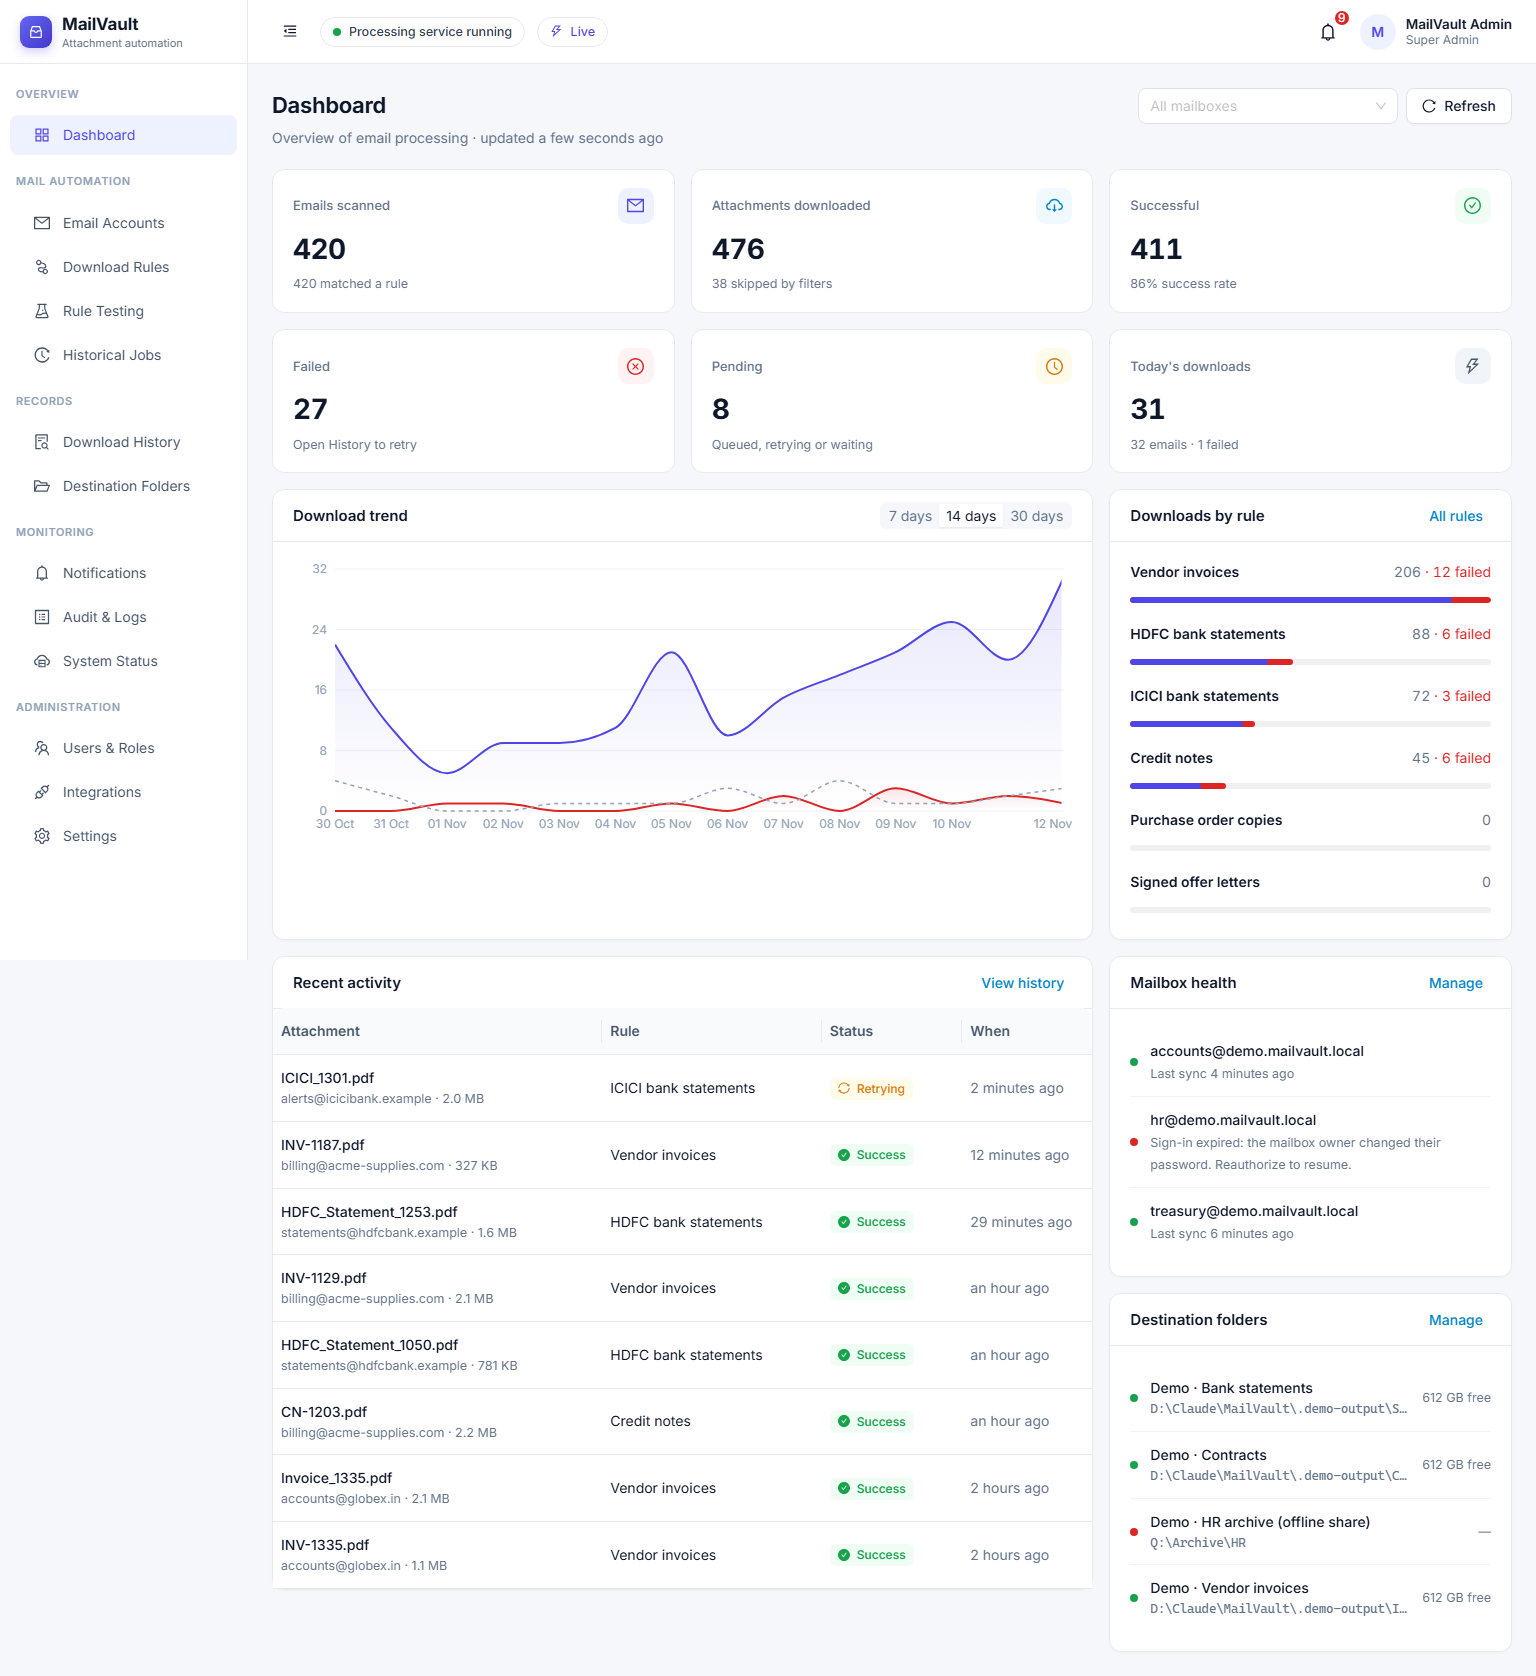
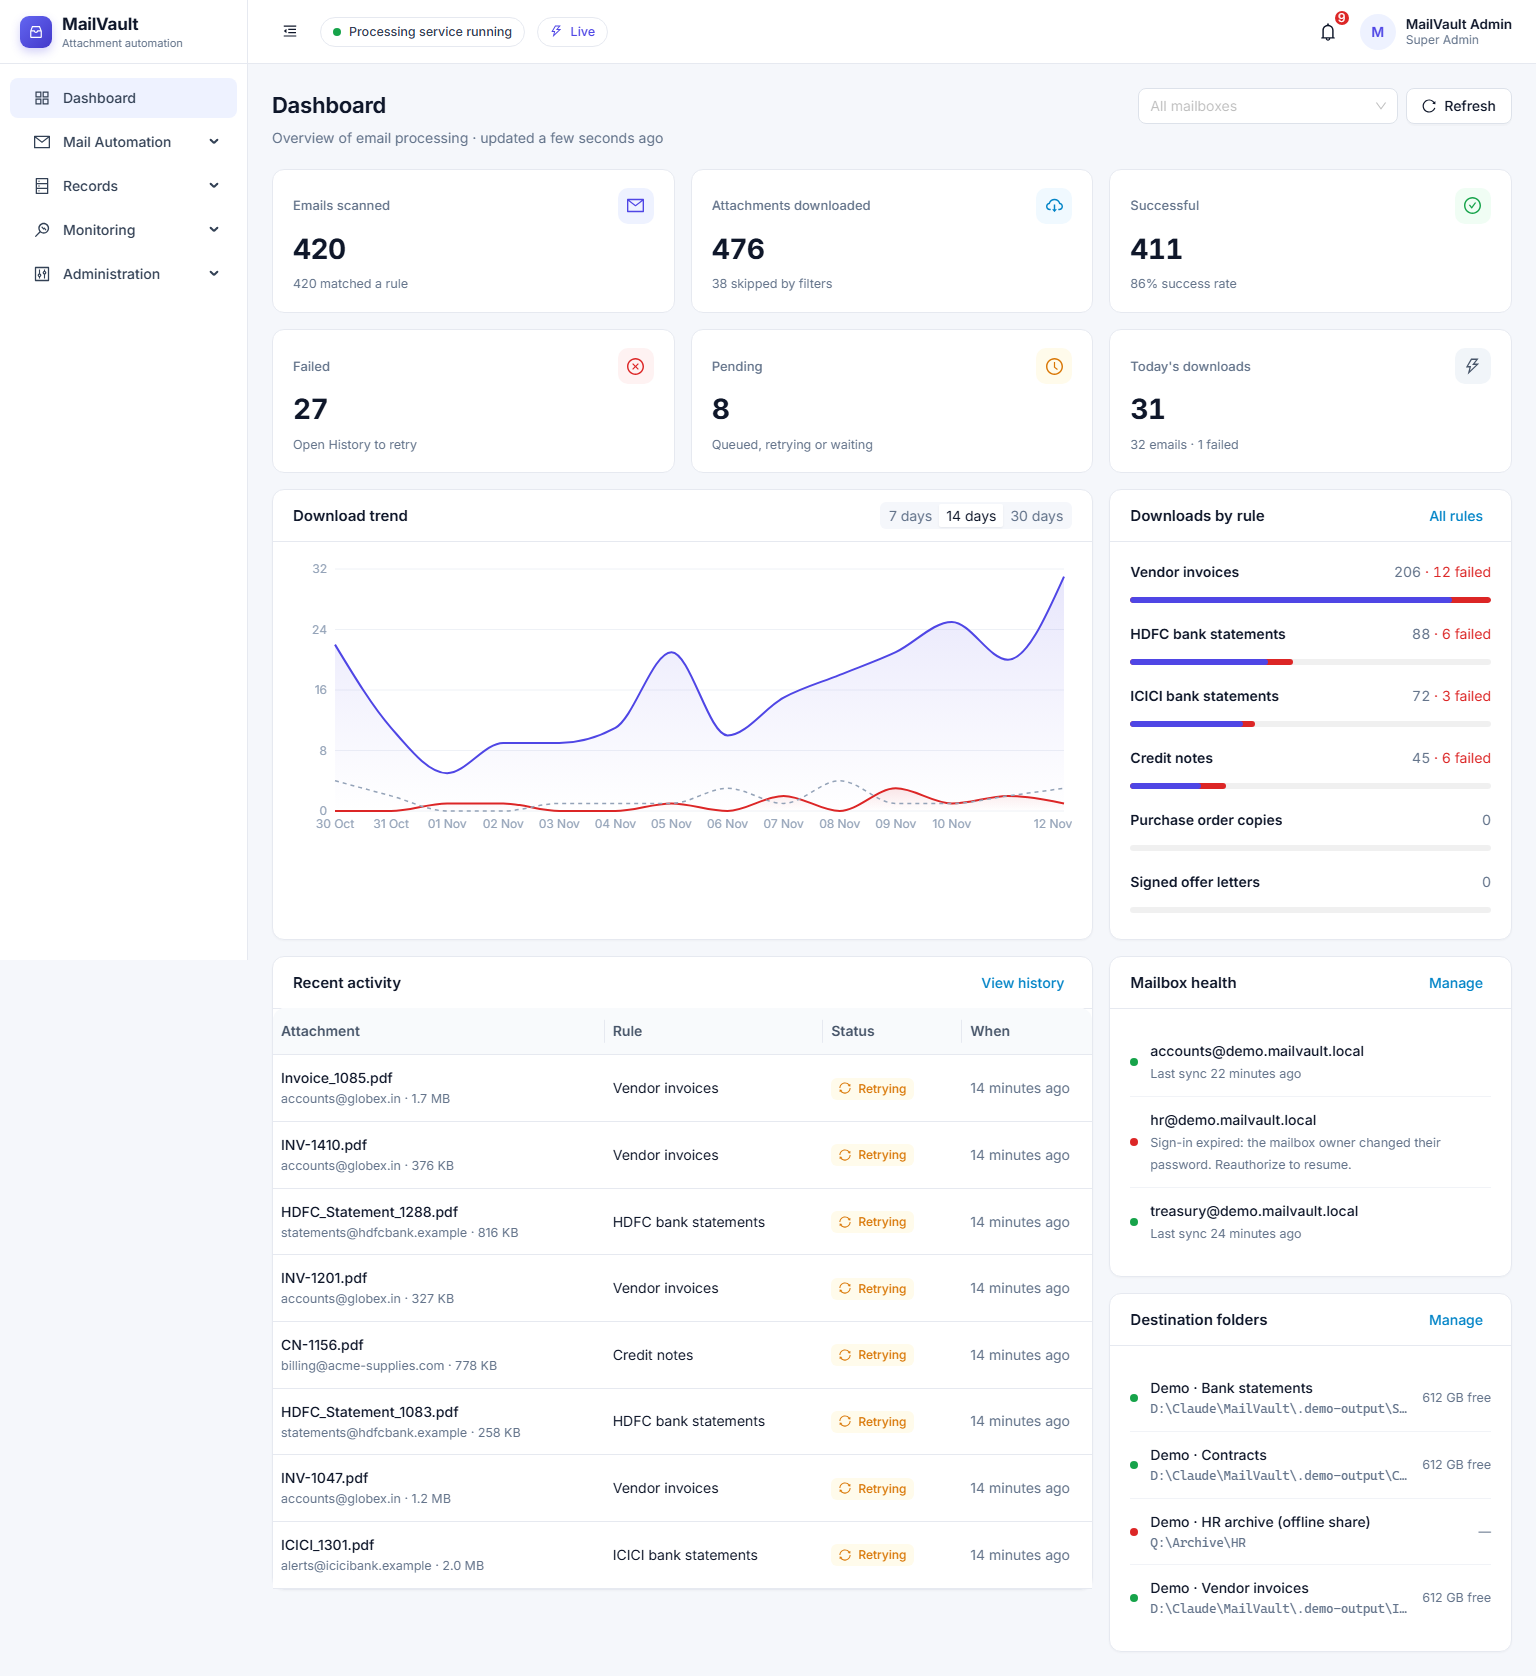
Sidebar: parent/child accordion menu with collapsed hover pop-outs
- Dashboard + four parent groups (Mail Automation, Records, Monitoring, Administration)
  with their own icons; children indented with a guide line
- Accordion: only one parent open; clicking an open parent closes it
- Parent of the current page opens automatically (also on deep links) and is highlighted
- Collapsed: parent icons only, hover pop-out with the parent's name and its pages;
  collapsed state remembered per browser
- Items still filtered by the user's permissions
- tests/e2e/sidebar.ts browser check (9 checks) and refreshed screenshots

diff --git a/apps/web/src/layout/AppLayout.tsx b/apps/web/src/layout/AppLayout.tsx
@@ -23,6 +23,10 @@ import {
   ThunderboltOutlined,
   KeyOutlined,
   ApiOutlined,
+  ContactsOutlined,
+  ControlOutlined,
+  DatabaseOutlined,
+  MonitorOutlined,
 } from '@ant-design/icons';
 import { ChangePasswordModal, PreferencesModal } from '../components/AccountModals';
 import type { Module } from '@mailvault/shared';
@@ -39,26 +43,40 @@ interface NavItem {
   module: Module;
 }
 
-const NAV: { group: string; items: NavItem[] }[] = [
-  { group: 'Overview', items: [{ key: '/', label: 'Dashboard', icon: <AppstoreOutlined />, module: 'dashboard' }] },
+interface NavGroup {
+  key: string;
+  label: string;
+  icon: React.ReactNode;
+  items: NavItem[];
+}
+
+const HOME: NavItem = { key: '/', label: 'Dashboard', icon: <AppstoreOutlined />, module: 'dashboard' };
+
+const NAV: NavGroup[] = [
   {
-    group: 'Mail automation',
+    key: 'grp:mail',
+    label: 'Mail Automation',
+    icon: <MailOutlined />,
     items: [
-      { key: '/accounts', label: 'Email Accounts', icon: <MailOutlined />, module: 'accounts' },
+      { key: '/accounts', label: 'Email Accounts', icon: <ContactsOutlined />, module: 'accounts' },
       { key: '/rules', label: 'Download Rules', icon: <NodeIndexOutlined />, module: 'rules' },
       { key: '/rule-testing', label: 'Rule Testing', icon: <ExperimentOutlined />, module: 'ruleTesting' },
       { key: '/historical-jobs', label: 'Historical Jobs', icon: <HistoryOutlined />, module: 'ruleTesting' },
     ],
   },
   {
-    group: 'Records',
+    key: 'grp:records',
+    label: 'Records',
+    icon: <DatabaseOutlined />,
     items: [
       { key: '/history', label: 'Download History', icon: <FileSearchOutlined />, module: 'history' },
       { key: '/destinations', label: 'Destination Folders', icon: <FolderOpenOutlined />, module: 'destinations' },
     ],
   },
   {
-    group: 'Monitoring',
+    key: 'grp:monitoring',
+    label: 'Monitoring',
+    icon: <MonitorOutlined />,
     items: [
       { key: '/notifications', label: 'Notifications', icon: <BellOutlined />, module: 'notifications' },
       { key: '/logs', label: 'Audit & Logs', icon: <ProfileOutlined />, module: 'logs' },
@@ -66,7 +84,9 @@ const NAV: { group: string; items: NavItem[] }[] = [
     ],
   },
   {
-    group: 'Administration',
+    key: 'grp:admin',
+    label: 'Administration',
+    icon: <ControlOutlined />,
     items: [
       { key: '/users', label: 'Users & Roles', icon: <TeamOutlined />, module: 'users' },
       { key: '/integrations', label: 'Integrations', icon: <ApiOutlined />, module: 'settings' },
@@ -74,6 +94,18 @@ const NAV: { group: string; items: NavItem[] }[] = [
     ],
   },
 ];
+
+/** The parent group that contains a page, so it can be opened automatically. */
+const groupOf = (path: string) => NAV.find((g) => g.items.some((i) => i.key === path))?.key;
+
+const COLLAPSE_KEY = 'mv.sidebarCollapsed';
+const readCollapsed = () => {
+  try {
+    return localStorage.getItem(COLLAPSE_KEY) === '1';
+  } catch {
+    return false;
+  }
+};
 
 interface StatusResp {
   workers: { online: boolean; lastBeatAt: string; hostname: string }[];
@@ -97,7 +129,32 @@ export function AppLayout() {
   const [prefsOpen, setPrefsOpen] = useState(false);
   const navigate = useNavigate();
   const { pathname } = useLocation();
-  const [collapsed, setCollapsed] = useState(false);
+  const [collapsed, setCollapsedState] = useState(readCollapsed);
+  const setCollapsed = (fn: (c: boolean) => boolean) =>
+    setCollapsedState((c) => {
+      const next = fn(c);
+      try {
+        localStorage.setItem(COLLAPSE_KEY, next ? '1' : '0');
+      } catch {
+        /* storage not available */
+      }
+      return next;
+    });
+  const selected = '/' + (pathname.split('/')[1] ?? '');
+  const [openKeys, setOpenKeys] = useState<string[]>(() => {
+    const g = groupOf(selected);
+    return g ? [g] : [];
+  });
+  // Navigating to a page opens its parent (and closes the others).
+  useEffect(() => {
+    const g = groupOf(selected);
+    if (g) setOpenKeys([g]);
+  }, [selected]);
+  // Accordion: only one parent open at a time; clicking an open parent closes it.
+  const onOpenChange = (keys: string[]) => {
+    const latest = keys.find((k) => !openKeys.includes(k));
+    setOpenKeys(latest ? [latest] : []);
+  };
 
   const status = useQuery({ queryKey: ['system-status'], queryFn: () => api.get<StatusResp>('/api/system/status'), refetchInterval: 30_000 });
   const notes = useQuery({ queryKey: ['notifications'], queryFn: () => api.get<NotificationRow[]>('/api/notifications'), refetchInterval: 30_000 });
@@ -126,17 +183,19 @@ export function AppLayout() {
   const unread = notes.data?.filter((n) => !n.readAt).length ?? 0;
   const worker = status.data?.workers.find((w) => w.online) ?? status.data?.workers[0];
 
-  const items: MenuProps['items'] = useMemo(
-    () =>
-      NAV.map((g) => ({
-        type: 'group' as const,
-        label: collapsed ? null : g.group,
-        children: g.items.filter((i) => can(i.module)).map((i) => ({ key: i.key, icon: i.icon, label: i.label })),
-      })).filter((g) => g.children.length > 0),
-    [can, collapsed],
-  );
-
-  const selected = '/' + (pathname.split('/')[1] ?? '');
+  const items: MenuProps['items'] = useMemo(() => {
+    const groups = NAV.map((g) => ({
+      key: g.key,
+      icon: g.icon,
+      label: g.label,
+      popupClassName: 'mv-menu-popup',
+      children: g.items.filter((i) => can(i.module)).map((i) => ({ key: i.key, icon: i.icon, label: i.label })),
+    }))
+      .filter((g) => g.children.length > 0)
+      // Collapsed: the hover pop-out gets the parent's name as a small heading.
+      .map((g) => (collapsed ? { ...g, children: [{ type: 'group' as const, key: `${g.key}:title`, label: g.label, children: g.children }] } : g));
+    return [...(can(HOME.module) ? [{ key: HOME.key, icon: HOME.icon, label: HOME.label }] : []), ...groups];
+  }, [can, collapsed]);
 
   return (
     <Layout style={{ minHeight: '100vh' }}>
@@ -152,7 +211,16 @@ export function AppLayout() {
             </div>
           )}
         </div>
-        <Menu mode="inline" selectedKeys={[selected]} items={items} onClick={(e) => navigate(e.key)} />
+        <Menu
+          mode="inline"
+          className="mv-nav"
+          selectedKeys={[selected]}
+          items={items}
+          onClick={(e) => navigate(e.key)}
+          {...(collapsed ? {} : { openKeys, onOpenChange })}
+          subMenuOpenDelay={0.05}
+          subMenuCloseDelay={0.15}
+        />
       </Sider>
 
       <Layout>

diff --git a/tests/e2e/sidebar.ts b/tests/e2e/sidebar.ts
@@ -1,0 +1,82 @@
+// Sidebar check: accordion (one parent open), auto-open for the current page, collapsed icons with hover pop-out.
+// Usage: npx tsx tests/e2e/sidebar.ts [outDir]   (needs api + web running)
+import { mkdirSync, readFileSync } from 'node:fs';
+import { resolve } from 'node:path';
+import { chromium } from 'playwright-core';
+
+const base = process.env.MV_URL ?? 'http://localhost:5180';
+const out = resolve(process.argv[2] ?? 'logs/sidebar');
+mkdirSync(out, { recursive: true });
+const pw = /DEV_ADMIN_PASSWORD=(.*)/.exec(readFileSync(resolve('.env'), 'utf8'))?.[1]?.trim() ?? '';
+
+const browser = await chromium.launch({ channel: 'msedge', headless: true });
+const ctx = await browser.newContext({ viewport: { width: 1440, height: 900 } });
+const page = await ctx.newPage();
+const shot = (name: string) => page.screenshot({ path: resolve(out, `${name}.png`), clip: { x: 0, y: 0, width: 560, height: 900 } });
+const openParents = () =>
+  page.$$eval('.mv-nav > .ant-menu-submenu-open > .ant-menu-submenu-title', (els) => els.map((e) => e.textContent?.trim()));
+const check = (label: string, ok: boolean) => console.log(`${ok ? '✔' : '✘'} ${label}`);
+
+await page.goto(base);
+await page.evaluate(() => localStorage.removeItem('mv.sidebarCollapsed'));
+await page.fill('#username', 'admin');
+await page.fill('#password', pw);
+await page.click('button[type=submit]');
+await page.waitForSelector('.mv-nav');
+
+// 1. Deep link opens its parent
+await page.goto(base + '/history');
+await page.waitForSelector('.mv-nav');
+await page.waitForTimeout(400);
+check(`Opening /history opens only "Records" → ${JSON.stringify(await openParents())}`, JSON.stringify(await openParents()) === '["Records"]');
+await shot('1-expanded-records');
+
+// 2. Clicking another parent closes the first (accordion)
+await page.click('.mv-nav .ant-menu-submenu-title:has-text("Mail Automation")');
+await page.waitForTimeout(400);
+check(`Click "Mail Automation" → ${JSON.stringify(await openParents())}`, JSON.stringify(await openParents()) === '["Mail Automation"]');
+await shot('2-accordion-mail');
+
+// 3. Clicking the open parent closes it
+await page.click('.mv-nav .ant-menu-submenu-title:has-text("Mail Automation")');
+await page.waitForTimeout(400);
+check(`Click it again closes it → ${JSON.stringify(await openParents())}`, (await openParents()).length === 0);
+
+// 4. Navigate via a child: its parent stays open and the child is highlighted
+await page.click('.mv-nav .ant-menu-submenu-title:has-text("Administration")');
+await page.waitForTimeout(300);
+await page.click('.mv-nav .ant-menu-item:has-text("Users & Roles")');
+await page.waitForURL('**/users');
+await page.waitForTimeout(400);
+const selected = await page.$eval('.mv-nav .ant-menu-item-selected', (e) => e.textContent?.trim());
+check(`Child "Users & Roles" selected → ${selected}; open ${JSON.stringify(await openParents())}`, selected === 'Users & Roles' && JSON.stringify(await openParents()) === '["Administration"]');
+
+// 5. Collapse: only parent icons; hover shows the children pop-out
+await page.click('button[aria-label="Toggle menu"]');
+await page.waitForTimeout(500);
+const width = await page.$eval('.mv-sider', (e) => Math.round(e.getBoundingClientRect().width));
+check(`Collapsed sidebar width ${width}px`, width === 72);
+await shot('3-collapsed');
+await page.hover('.mv-nav [data-menu-id$="grp:records"]');
+await page.waitForSelector('.mv-menu-popup:not(.ant-menu-submenu-hidden) .ant-menu-item', { timeout: 3000 });
+await page.waitForTimeout(400);
+const popupItems = await page.$$eval('.mv-menu-popup:not(.ant-menu-submenu-hidden) .ant-menu-item', (els) => els.map((e) => e.textContent?.trim()));
+check(`Hover "Records" icon shows pop-out → ${JSON.stringify(popupItems)}`, JSON.stringify(popupItems) === '["Download History","Destination Folders"]');
+await page.screenshot({ path: resolve(out, '4-collapsed-hover.png'), clip: { x: 0, y: 0, width: 560, height: 900 } });
+await page.click('.mv-menu-popup:not(.ant-menu-submenu-hidden) .ant-menu-item:has-text("Destination Folders")');
+await page.waitForURL('**/destinations');
+check('Clicking a pop-out item navigates (collapsed)', page.url().endsWith('/destinations'));
+
+// 6. Collapsed state is remembered after reload; expanding opens the current parent again
+await page.reload();
+await page.waitForSelector('.mv-nav');
+await page.waitForTimeout(500);
+const widthAfter = await page.$eval('.mv-sider', (e) => Math.round(e.getBoundingClientRect().width));
+check(`Still collapsed after reload (${widthAfter}px)`, widthAfter === 72);
+await page.click('button[aria-label="Toggle menu"]');
+await page.waitForTimeout(500);
+check(`Expanded again → open ${JSON.stringify(await openParents())}`, JSON.stringify(await openParents()) === '["Records"]');
+await page.evaluate(() => localStorage.removeItem('mv.sidebarCollapsed'));
+
+await browser.close();
+console.log(`Screenshots in ${out}`);

diff --git a/apps/web/src/styles.css b/apps/web/src/styles.css
@@ -78,11 +78,90 @@ body {
   padding-top: 8px;
 }
 
-.mv-sider .ant-menu-item-group-title {
+/* ───────── Sidebar navigation (parent / child) ───────── */
+.mv-nav.ant-menu-inline,
+.mv-nav.ant-menu-inline-collapsed {
+  padding: 10px 0;
+}
+
+.mv-nav .ant-menu-submenu-title,
+.mv-nav > .ant-menu-item {
+  font-weight: 500;
+  color: #334155;
+}
+
+/* Parent of the current page: coloured title + icon */
+.mv-nav .ant-menu-submenu-selected > .ant-menu-submenu-title,
+.mv-nav .ant-menu-submenu-selected > .ant-menu-submenu-title .anticon {
+  color: var(--mv-primary) !important;
+}
+
+/* Children: lighter, indented, with a thin guide line */
+.mv-nav .ant-menu-sub.ant-menu-inline {
+  background: transparent !important;
+  position: relative;
+}
+
+.mv-nav .ant-menu-sub.ant-menu-inline::before {
+  content: '';
+  position: absolute;
+  left: 31px;
+  top: 4px;
+  bottom: 4px;
+  width: 1px;
+  background: var(--mv-border);
+}
+
+.mv-nav .ant-menu-sub .ant-menu-item {
+  font-weight: 400;
+  color: #475569;
+  height: 36px !important;
+  line-height: 36px !important;
+}
+
+.mv-nav .ant-menu-sub .ant-menu-item .anticon {
+  font-size: 14px;
+  opacity: 0.85;
+}
+
+.mv-nav .ant-menu-sub .ant-menu-item-selected {
+  font-weight: 600;
+  color: var(--mv-primary);
+}
+
+/* Collapsed: parent icons only (Ant Design centres them; colour the current page's parent) */
+.mv-nav.ant-menu-inline-collapsed > .ant-menu-submenu-selected > .ant-menu-submenu-title {
+  background: var(--mv-primary-soft);
+}
+
+/* Hover pop-out shown when the sidebar is collapsed */
+.mv-menu-popup .ant-menu {
+  padding: 6px !important;
+  border-radius: 12px !important;
+  min-width: 210px;
+  box-shadow: 0 12px 32px rgba(15, 23, 42, 0.12), 0 2px 6px rgba(15, 23, 42, 0.06) !important;
+  border: 1px solid var(--mv-border);
+}
+
+.mv-menu-popup .ant-menu-item-group-title {
+  font-size: 11px;
+  font-weight: 600;
   text-transform: uppercase;
   letter-spacing: 0.6px;
+  color: #94a3b8;
+  padding: 6px 12px 4px !important;
+}
+
+.mv-menu-popup .ant-menu-item {
+  border-radius: 8px !important;
+  height: 38px !important;
+  line-height: 38px !important;
+}
+
+.mv-menu-popup .ant-menu-item-selected {
+  background: var(--mv-primary-soft) !important;
+  color: var(--mv-primary) !important;
   font-weight: 600;
-  padding-top: 14px !important;
 }
 
 .mv-header {

diff --git a/apps/web/src/theme.ts b/apps/web/src/theme.ts
@@ -48,8 +48,11 @@ export const theme: ThemeConfig = {
       itemBorderRadius: 8,
       itemHeight: 40,
       itemMarginInline: 10,
-      groupTitleColor: '#94A3B8',
-      groupTitleFontSize: 11,
+      subMenuItemBg: 'transparent',
+      subMenuItemSelectedColor: palette.primary,
+      collapsedIconSize: 18,
+      collapsedWidth: 72,
+      popupBg: '#FFFFFF',
       iconSize: 16,
     },
     Card: { headerFontSize: 15, paddingLG: 20 },
